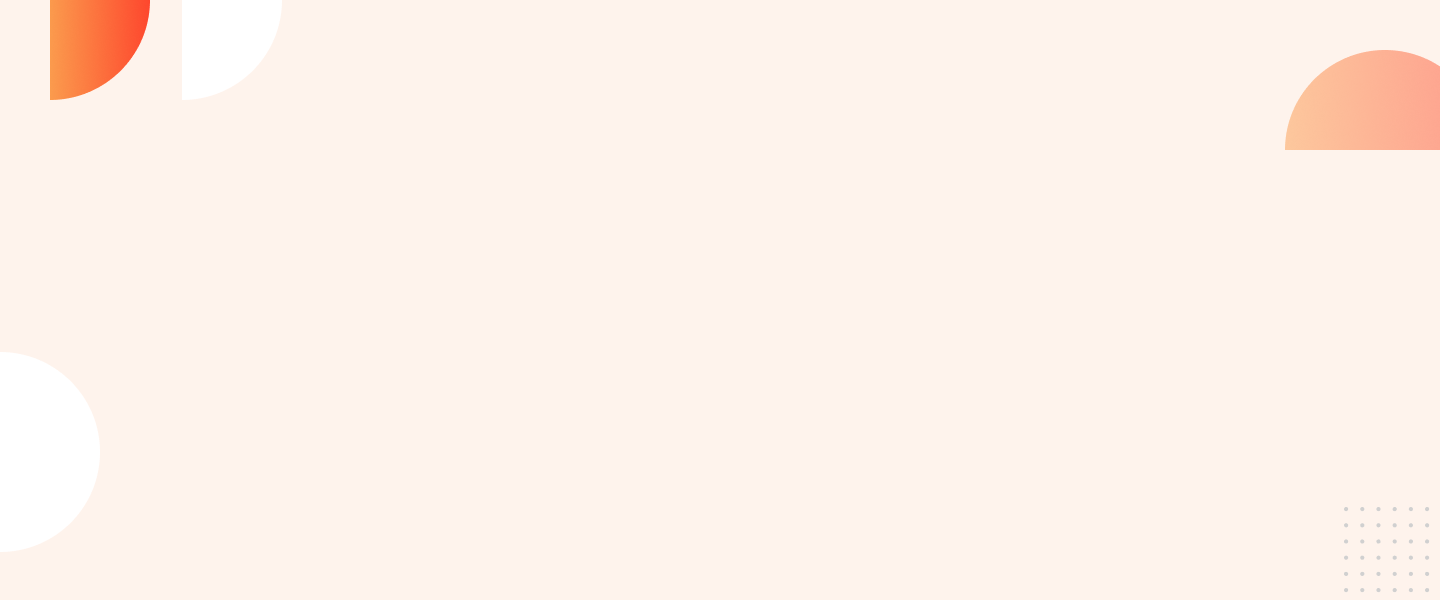
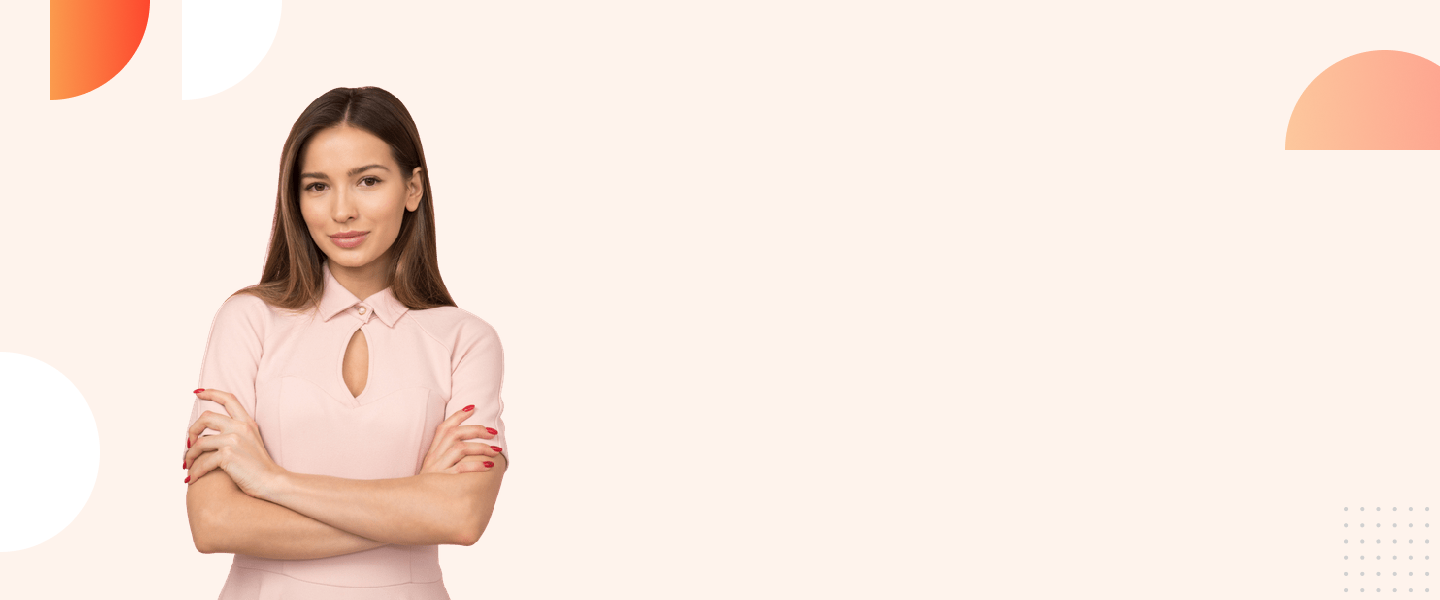
another commit

Changed region(s): [[0.125, 0.15, 0.375, 1.0]]

diff --git a/index.html b/index.html
@@ -28,6 +28,19 @@
         </div>
     </section>
 
+    <section>
+        <div class="about-me">
+            <h1>About Me</h1>
+            <p>I am Ayon Mansib. I can serve good food.</p>
+            <p>I am the owner of this restaurant.</p>
+            <p>we providing good food. Healthy food is our Main priority.</p>
+            <p>In this city I have the best food services.</p>
+            <p>You should take services from us.</p>
+            <a class="order-food-link-button" target="_blank" href="https://www.facebook.com/Ayon%20Mansib/">Contact
+                Me</a>
+
+        </div>
+    </section>
 </body>
 
 </html>

diff --git a/style.css b/style.css
@@ -24,6 +24,14 @@ section{
     font-weight: 700;
     padding: 10px 40px;
     border-radius: 5px;
-
+}
+.about-me{
+    background-image: url(images/7.png);
+    width: 100%;
+    text-align:center;
     
+    
+}
+.contact-me{
+
 }
